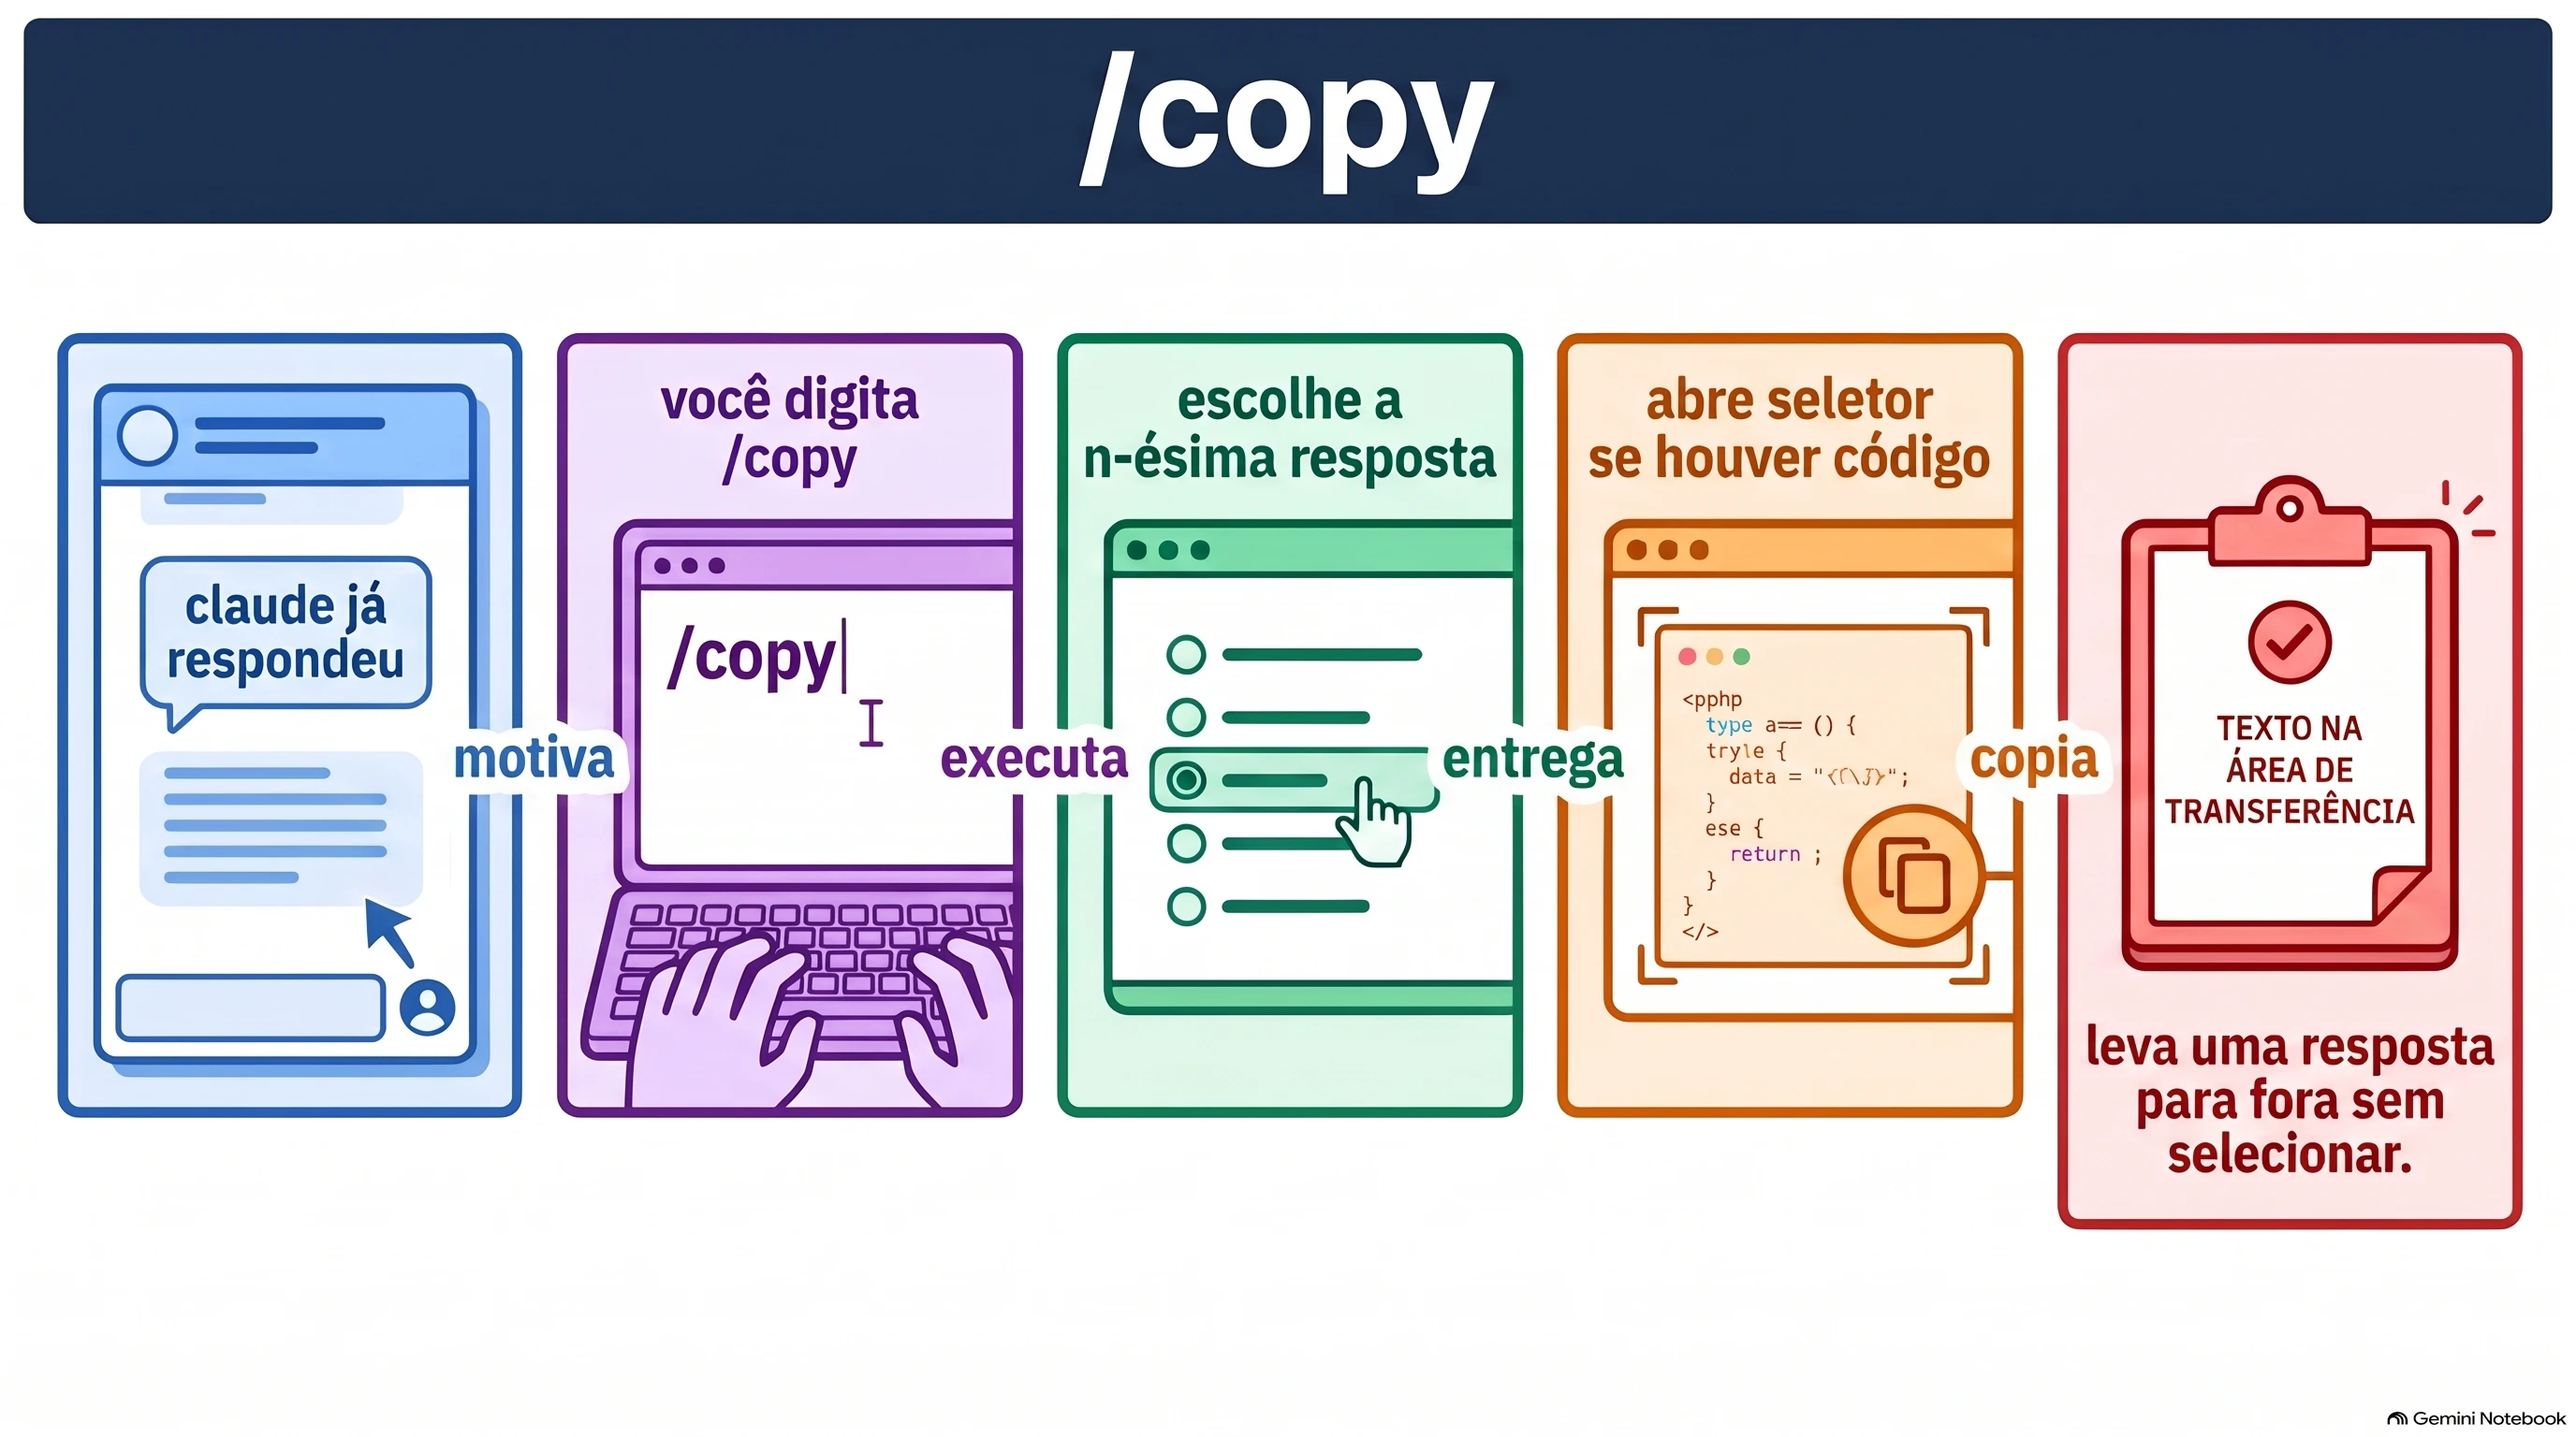
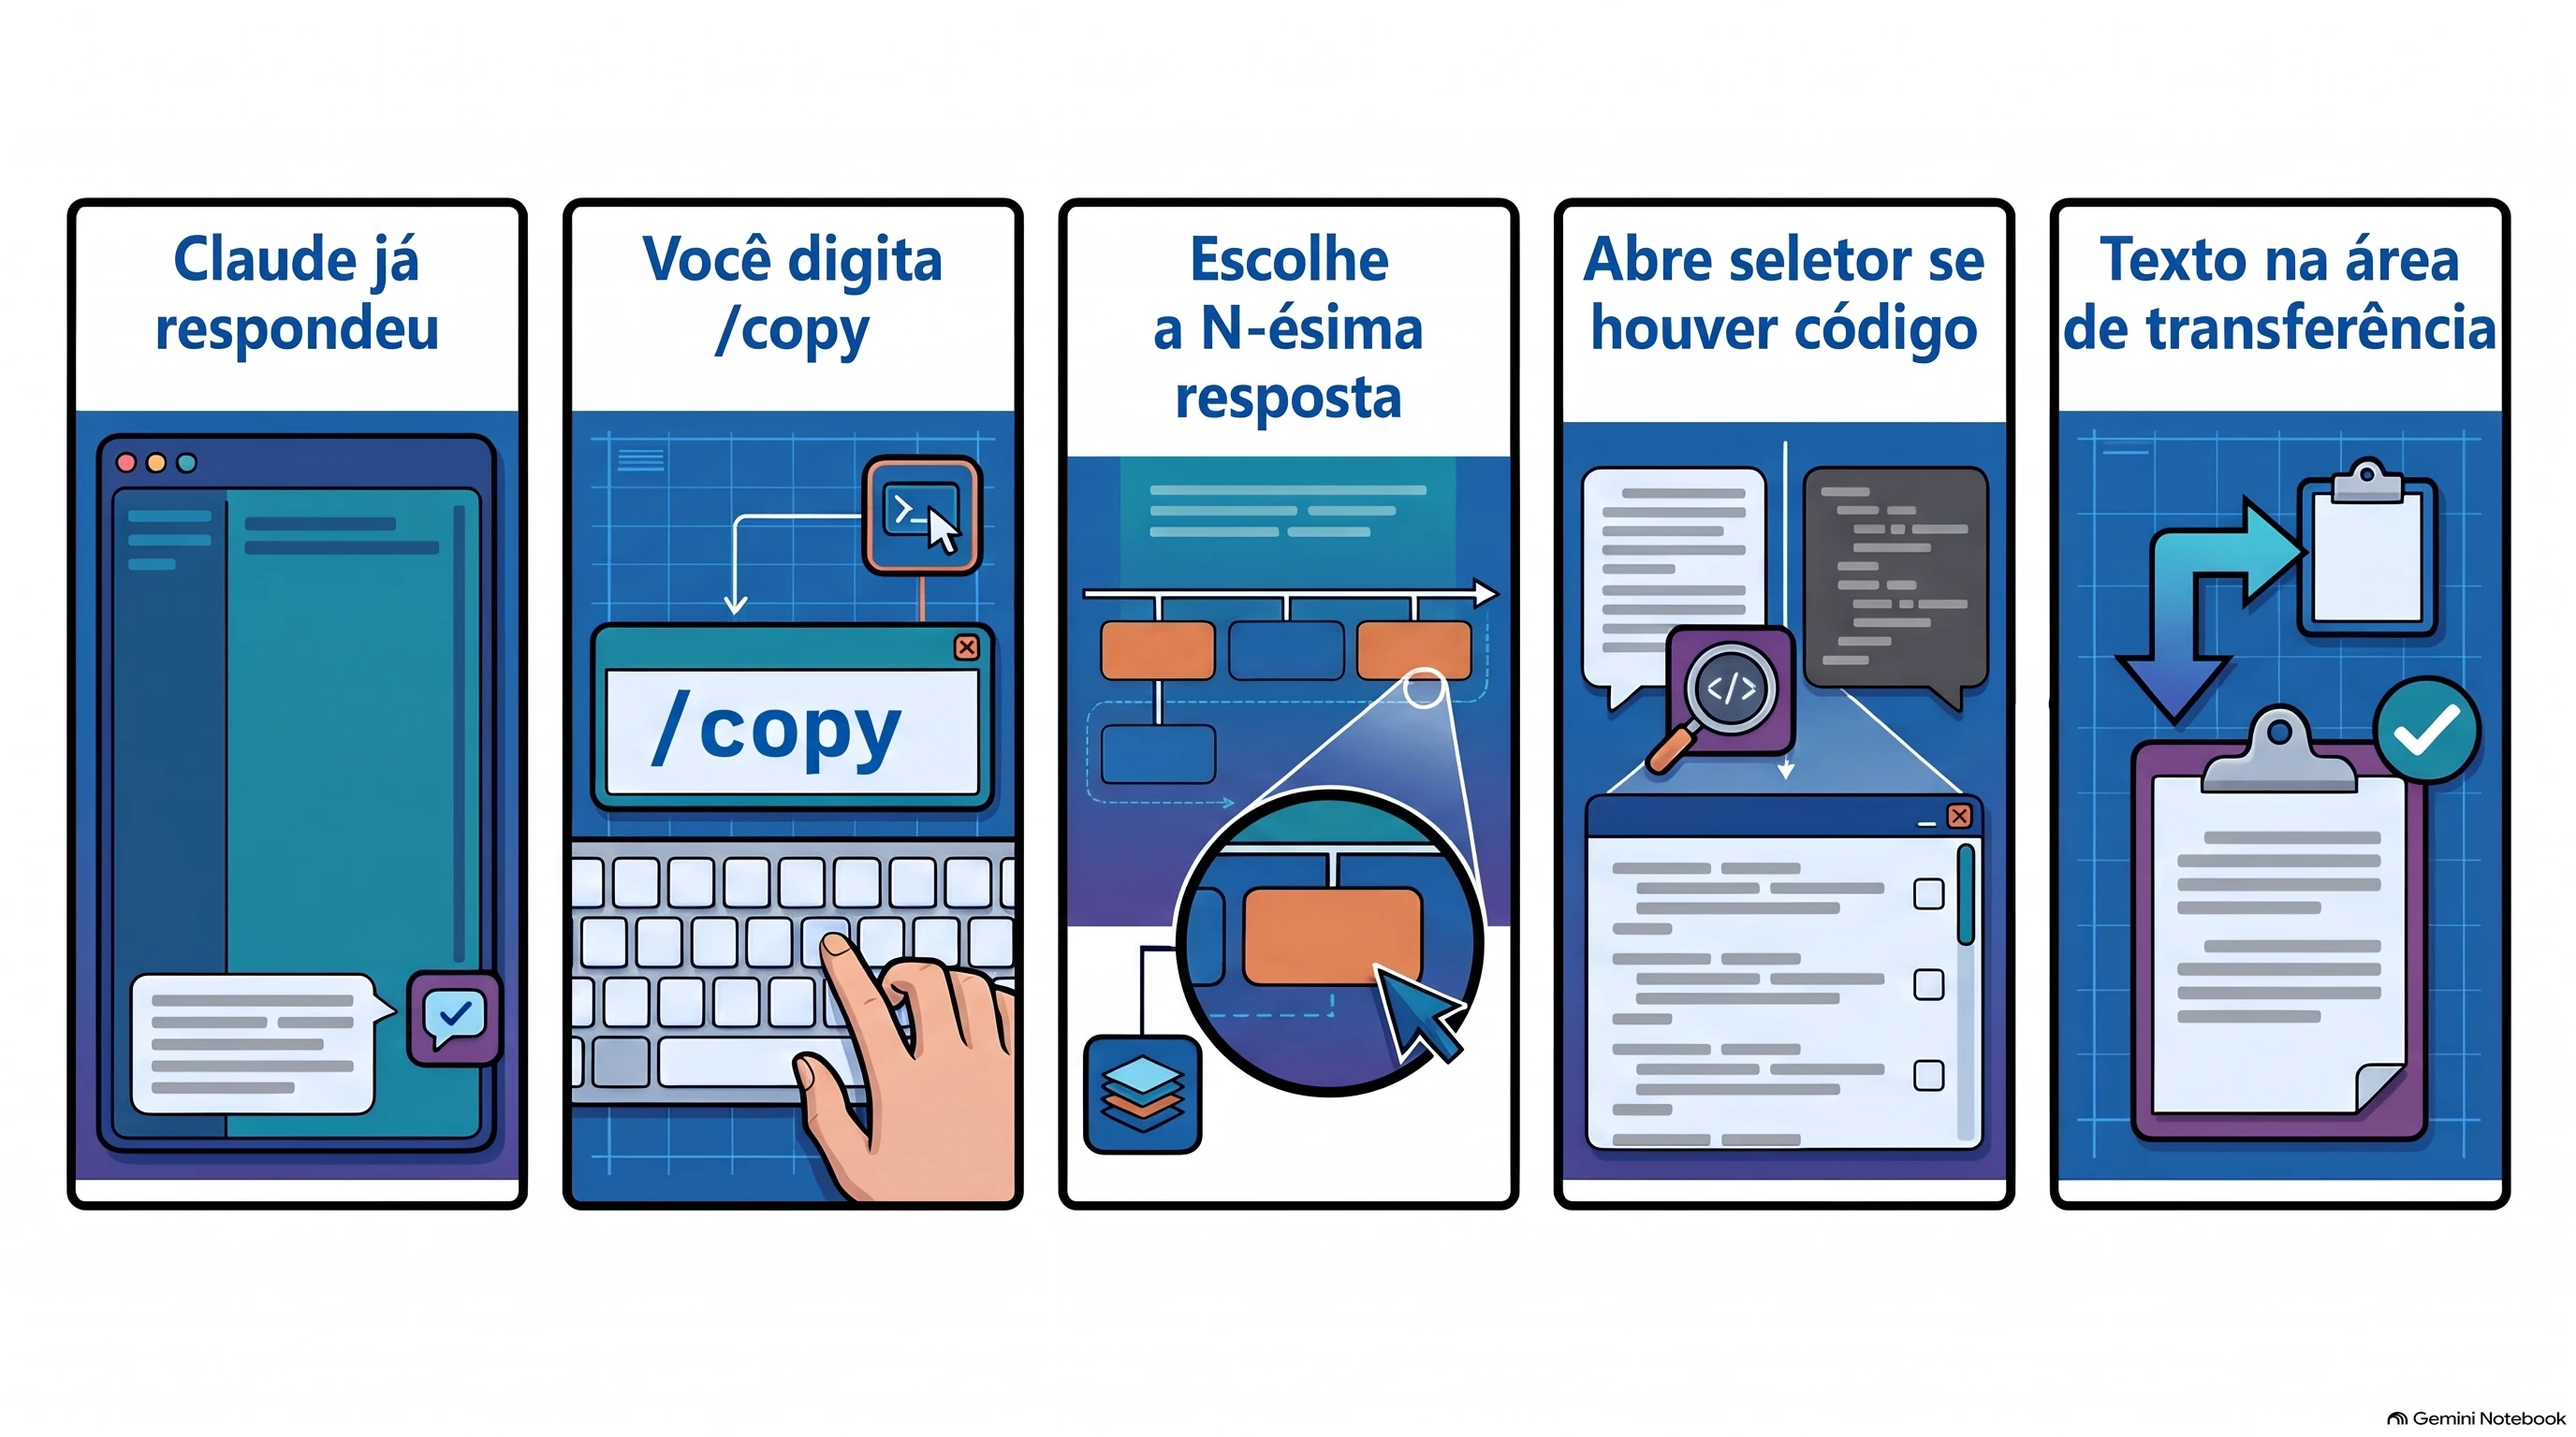
fix(infographics): regenerate model, diff, copy and compact posters
Why: a Haiku recheck of all 82 posters, confirmed visually, found
invented content that the cards do not state: a state badge "ATIVO"
on /model, count bubbles 3, 4, 3, 2 on /diff, garbled pseudo-code on
/copy and a CJK glyph inside an icon on /compact.

How: one new NotebookLM Studio run per slug with the same frozen
blueprint, notes and recipe, plus one prompt sentence naming the
error class. /compact attempt 1 used the old pasted roteiro source
and was discarded unaudited; attempt 2 used the current note.

What:
- New infographic.webp and infographic-1920.png for the four slugs.
- qa-report.json restarted for the new run (attempt 1; compact 2).
- Manifest and page block rewritten by the register tool.

Validation: per-poster transcription audit against roteiro.md;
check-qa 82/82; node --check on the inline script; page at 375 and
1280 px with 82 cards, no console errors, no horizontal scroll.

diff --git a/comandos-nativos.html b/comandos-nativos.html
@@ -3248,7 +3248,7 @@ const INFOGRAPHICS = {
       "vector": null
     },
     "model_mode": "notebooklm",
-    "updated_at": "2026-11-23T19:23:00Z"
+    "updated_at": "2026-11-25T23:06:01Z"
   },
   "config": {
     "command": "/config",
@@ -3281,7 +3281,7 @@ const INFOGRAPHICS = {
       "vector": null
     },
     "model_mode": "notebooklm",
-    "updated_at": "2026-11-23T20:39:21Z"
+    "updated_at": "2026-11-25T22:53:01Z"
   },
   "cost": {
     "command": "/cost",
@@ -3380,7 +3380,7 @@ const INFOGRAPHICS = {
       "vector": null
     },
     "model_mode": "notebooklm",
-    "updated_at": "2026-11-23T20:19:45Z"
+    "updated_at": "2026-11-25T22:46:36Z"
   },
   "doctor": {
     "command": "/doctor",
@@ -3600,7 +3600,7 @@ const INFOGRAPHICS = {
       "vector": null
     },
     "model_mode": "notebooklm",
-    "updated_at": "2026-11-23T19:35:59Z"
+    "updated_at": "2026-11-25T22:41:49Z"
   },
   "output-style": {
     "command": "/output-style",
